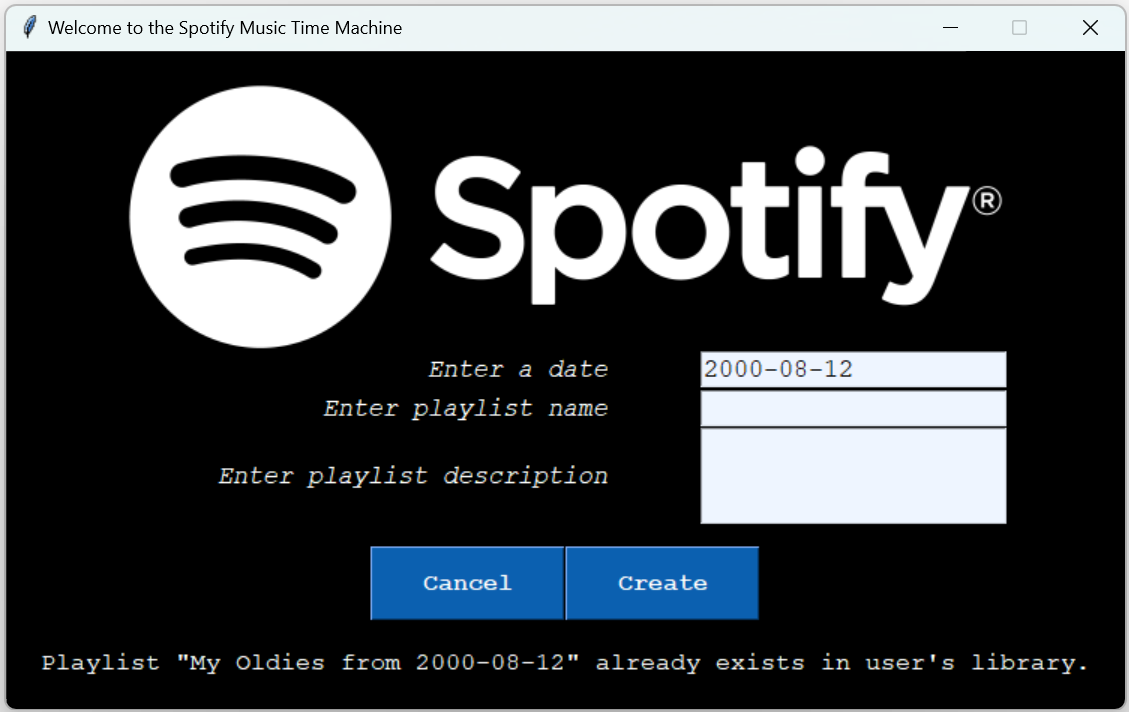
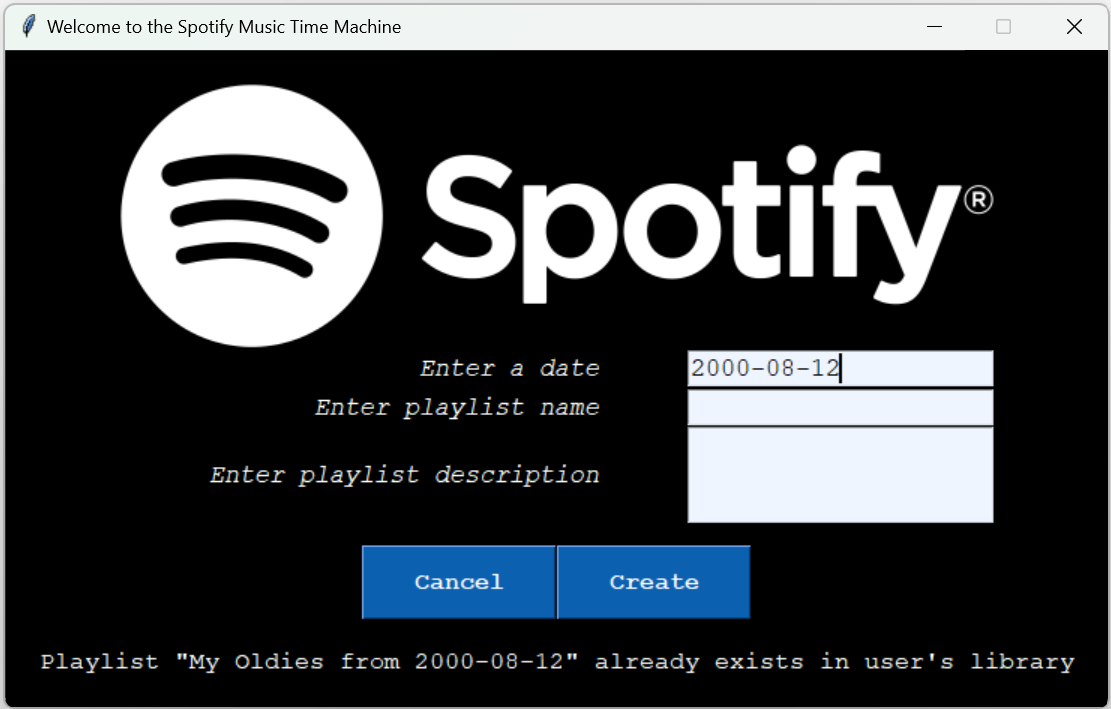
Comitting changes to app_image and .gitignore

diff --git a/playlistManager.py b/playlistManager.py
@@ -43,7 +43,7 @@ class PlaylistManager:
 		playlist_names = [pre_playlist["items"][i]["name"] for i, _ in enumerate(pre_playlist["items"])]
 
 		if self.playlist_name in playlist_names:
-			self.message = f"Playlist \"{self.playlist_name}\" already exists in user's library."
+			self.message = f"Playlist \"{self.playlist_name}\" already exists in user's library"
 			return None
 
 		self.sp.user_playlist_create(
